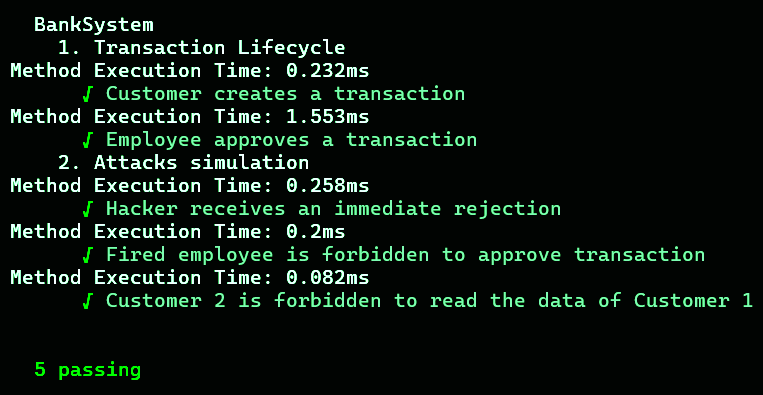
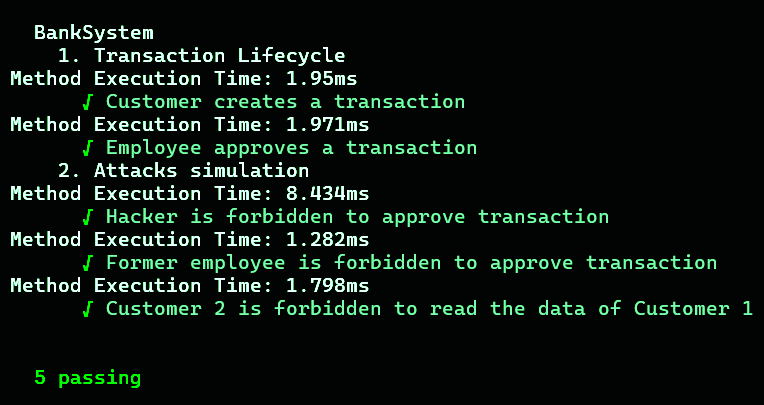
Change

Changed region(s): [[0.0, 0.0304, 0.9948, 0.7899], [0.0301, 0.9114, 0.1809, 0.9722]]

diff --git a/test/BankSystem.ts b/test/BankSystem.ts
@@ -39,7 +39,7 @@ describe("BankSystem", function () {
 				const transferAmount = ethers.parseEther("2.5"); // 2.5 ETH
 				console.time("Method Execution Time");
 				// STEP 1: C 1 initiates a payment. The blockchain itself extracts its structure via msg.sender
-				const createTx2 = bank.connect(customer1).createTransfer(RECEIVER_ID, { value: transferAmount });
+				const createTx2 = await bank.connect(customer1).createTransfer(RECEIVER_ID, { value: transferAmount });
 				console.timeEnd("Method Execution Time");
 				// SCIENTIFIC AUDIT: We check that the creation log does NOT contain hardware addresses (GDPR)
 				await expect(createTx2)
@@ -59,7 +59,7 @@ describe("BankSystem", function () {
 			});
 		});
 		describe("2. Attacks simulation", function () {
-			it("Hacker receives an immediate rejection", async function () {
+			it("Hacker is forbidden to approve transaction", async function () {
 				const transferAmount = ethers.parseEther("1.0");
 				const createTx2 = await bank.connect(customer1).createTransfer(RECEIVER_ID, { value: transferAmount });
 				await expect(createTx2)
@@ -67,11 +67,11 @@ describe("BankSystem", function () {
 				.withArgs(1, CUSTOMER_1_ID, transferAmount, RECEIVER_ID);
 				console.time("Method Execution Time");
 				//The hacker tries to call the function
-				expect(bank.connect(hacker).approveTransfer(1))
-				.to.be.revertedWith("Rejection: Inactive employee!");
+				await expect(bank.connect(hacker).approveTransfer(1))
+				.to.be.revertedWithCustomError(bank, "UnauthorizedAccess");
 				console.timeEnd("Method Execution Time");
 			});
-			it("Fired employee is forbidden to approve transaction", async function () {
+			it("Former employee is forbidden to approve transaction", async function () {
 				// 1. The IT Administrator changes the status of employee1's device to false
 				const deactivateTx = await bank.connect(admin).setEmployeeActiveStatus(employee1.address, false);
 				const currentTimestamp = await ethers.provider.getBlock("latest").then(b => b.timestamp);
@@ -84,8 +84,8 @@ describe("BankSystem", function () {
 				expect(isActiveEmployee).to.be.false;
 				console.time("Method Execution Time");
 				// 3. Former employee tries to approve a transaction directly in Arbitrum Orbit – EVM throws him out
-				expect(bank.connect(employee1).approveTransfer(1))
-				.to.be.revertedWith("Rejection: Inactive employee!");
+				await expect(bank.connect(employee1).approveTransfer(1))
+				.to.be.revertedWithCustomError(bank, "UnauthorizedAccess");
 				console.timeEnd("Method Execution Time");
 			});
 			it("Customer 2 is forbidden to read the data of Customer 1", async function () {
@@ -97,8 +97,8 @@ describe("BankSystem", function () {
 				.withArgs(1, CUSTOMER_1_ID, transferAmount, RECEIVER_ID);
 				// Since the ID in his structure (102) does not match the customerID of the transfer (101), the chain check is blocked
 				console.time("Method Execution Time");
-				expect(bank.connect(customer2).getTransferDetails(1))
-				.to.be.revertedWith("Cancellation: Insufficient rights to view transaction data!");
+				await expect(bank.connect(customer2).getTransferDetails(1))
+				.to.be.revertedWithCustomError(bank, "UnauthorizedAccess");
 				console.timeEnd("Method Execution Time");
 			});
 		});

diff --git a/hardhat.config.ts b/hardhat.config.ts
@@ -1,20 +1,16 @@
 import hardhatToolboxMochaEthersPlugin from "@nomicfoundation/hardhat-toolbox-mocha-ethers";
 import { configVariable, defineConfig } from "hardhat/config";
 import hardhatEthers from "@nomicfoundation/hardhat-ethers";
-import hardhatTypechain from "@nomicfoundation/hardhat-typechain";
 import hardhatMocha from "@nomicfoundation/hardhat-mocha";
 import hardhatEthersChaiMatchers from "@nomicfoundation/hardhat-ethers-chai-matchers";
-import hardhatNetworkHelpers from "@nomicfoundation/hardhat-network-helpers";
 
 
 export default defineConfig({
   plugins: [
     hardhatToolboxMochaEthersPlugin, 
     hardhatEthers,
-    hardhatTypechain,
     hardhatMocha,
-    hardhatEthersChaiMatchers,
-    hardhatNetworkHelpers,
+    hardhatEthersChaiMatchers
   ],
   solidity: {
     profiles: {